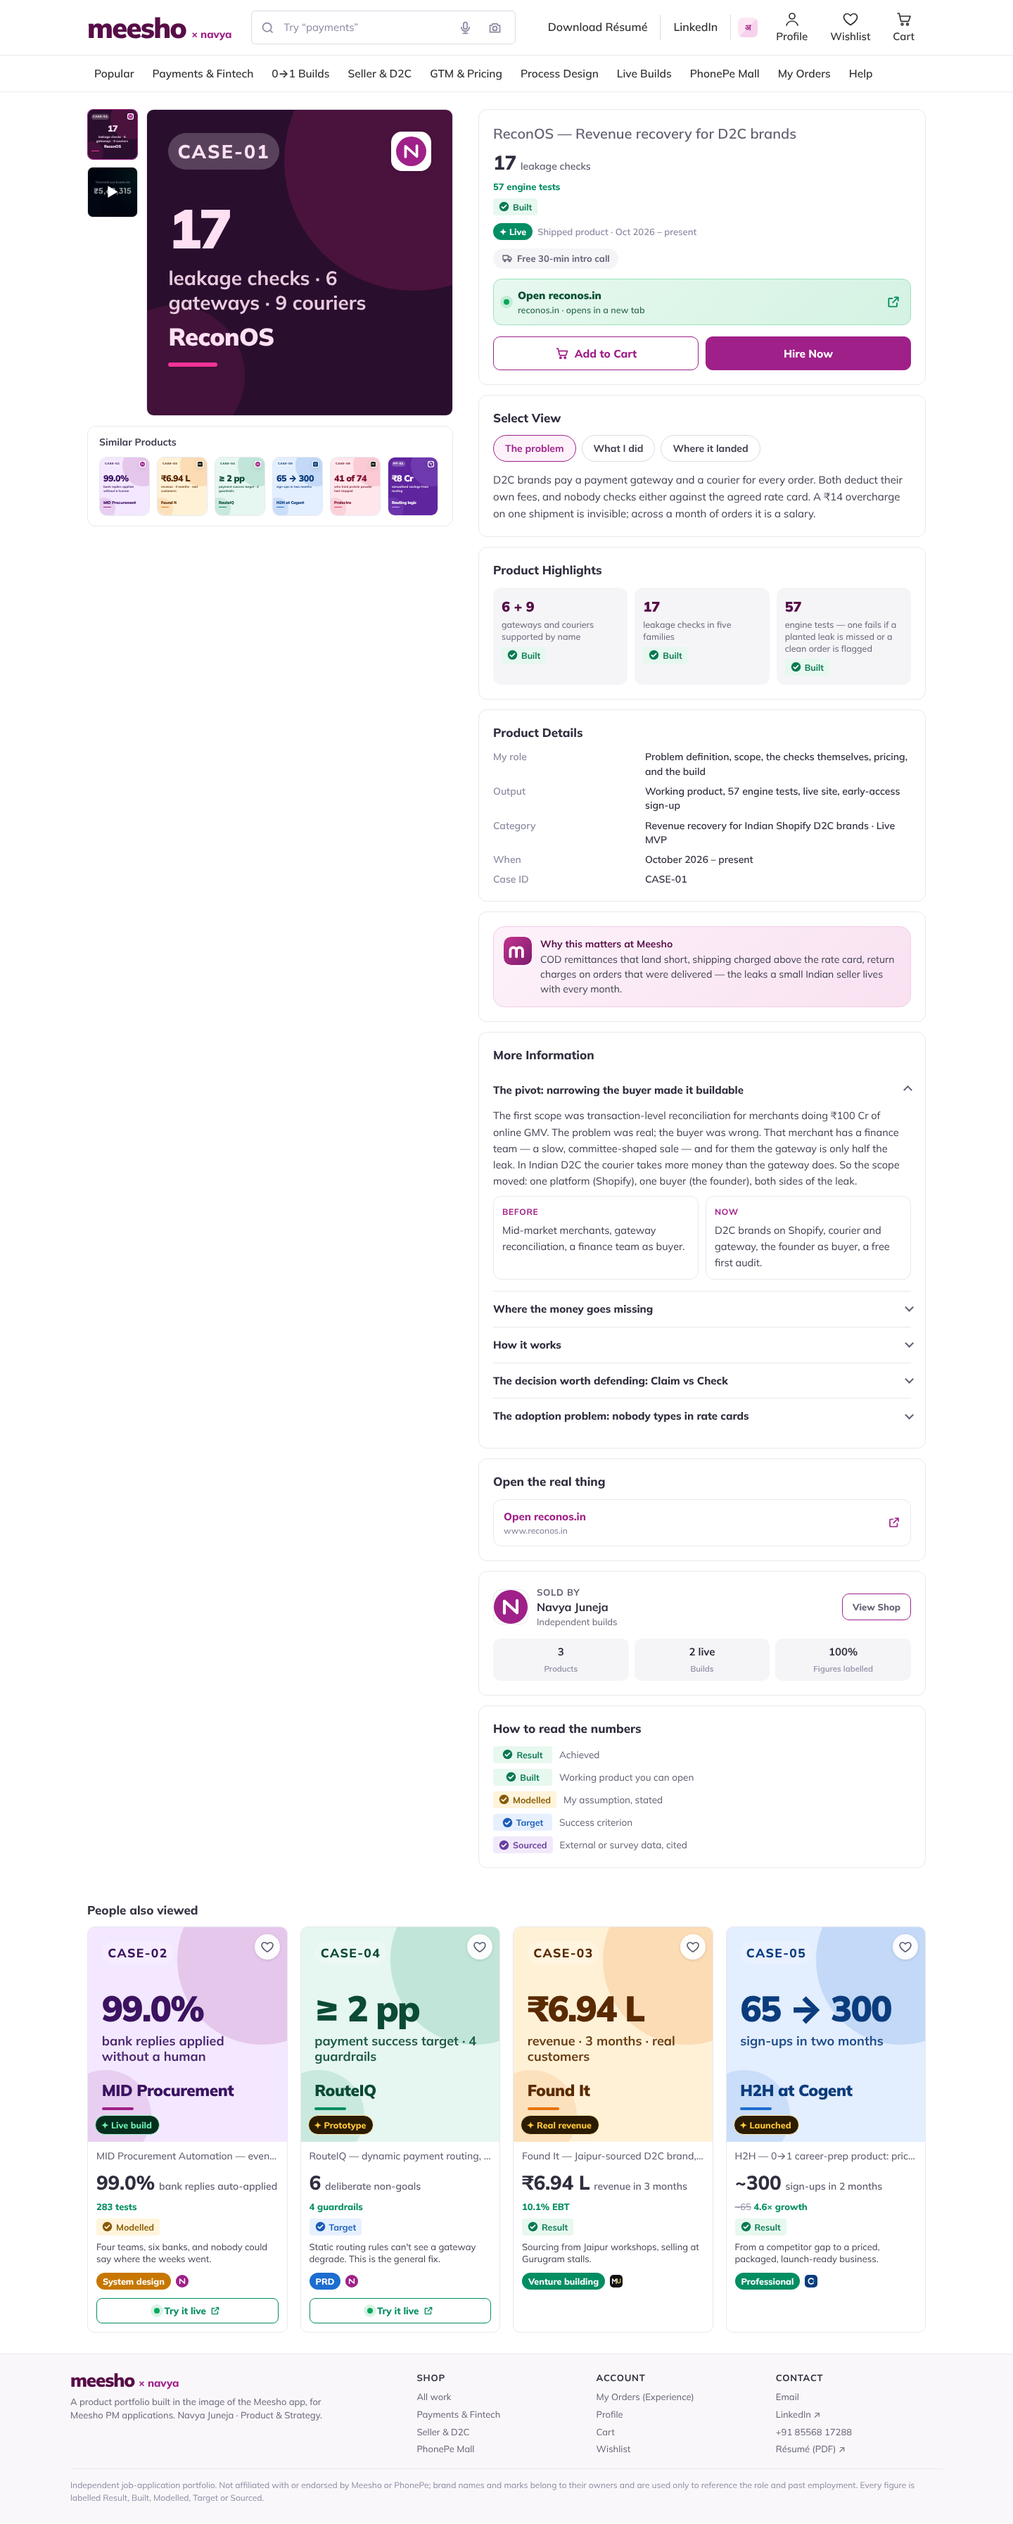
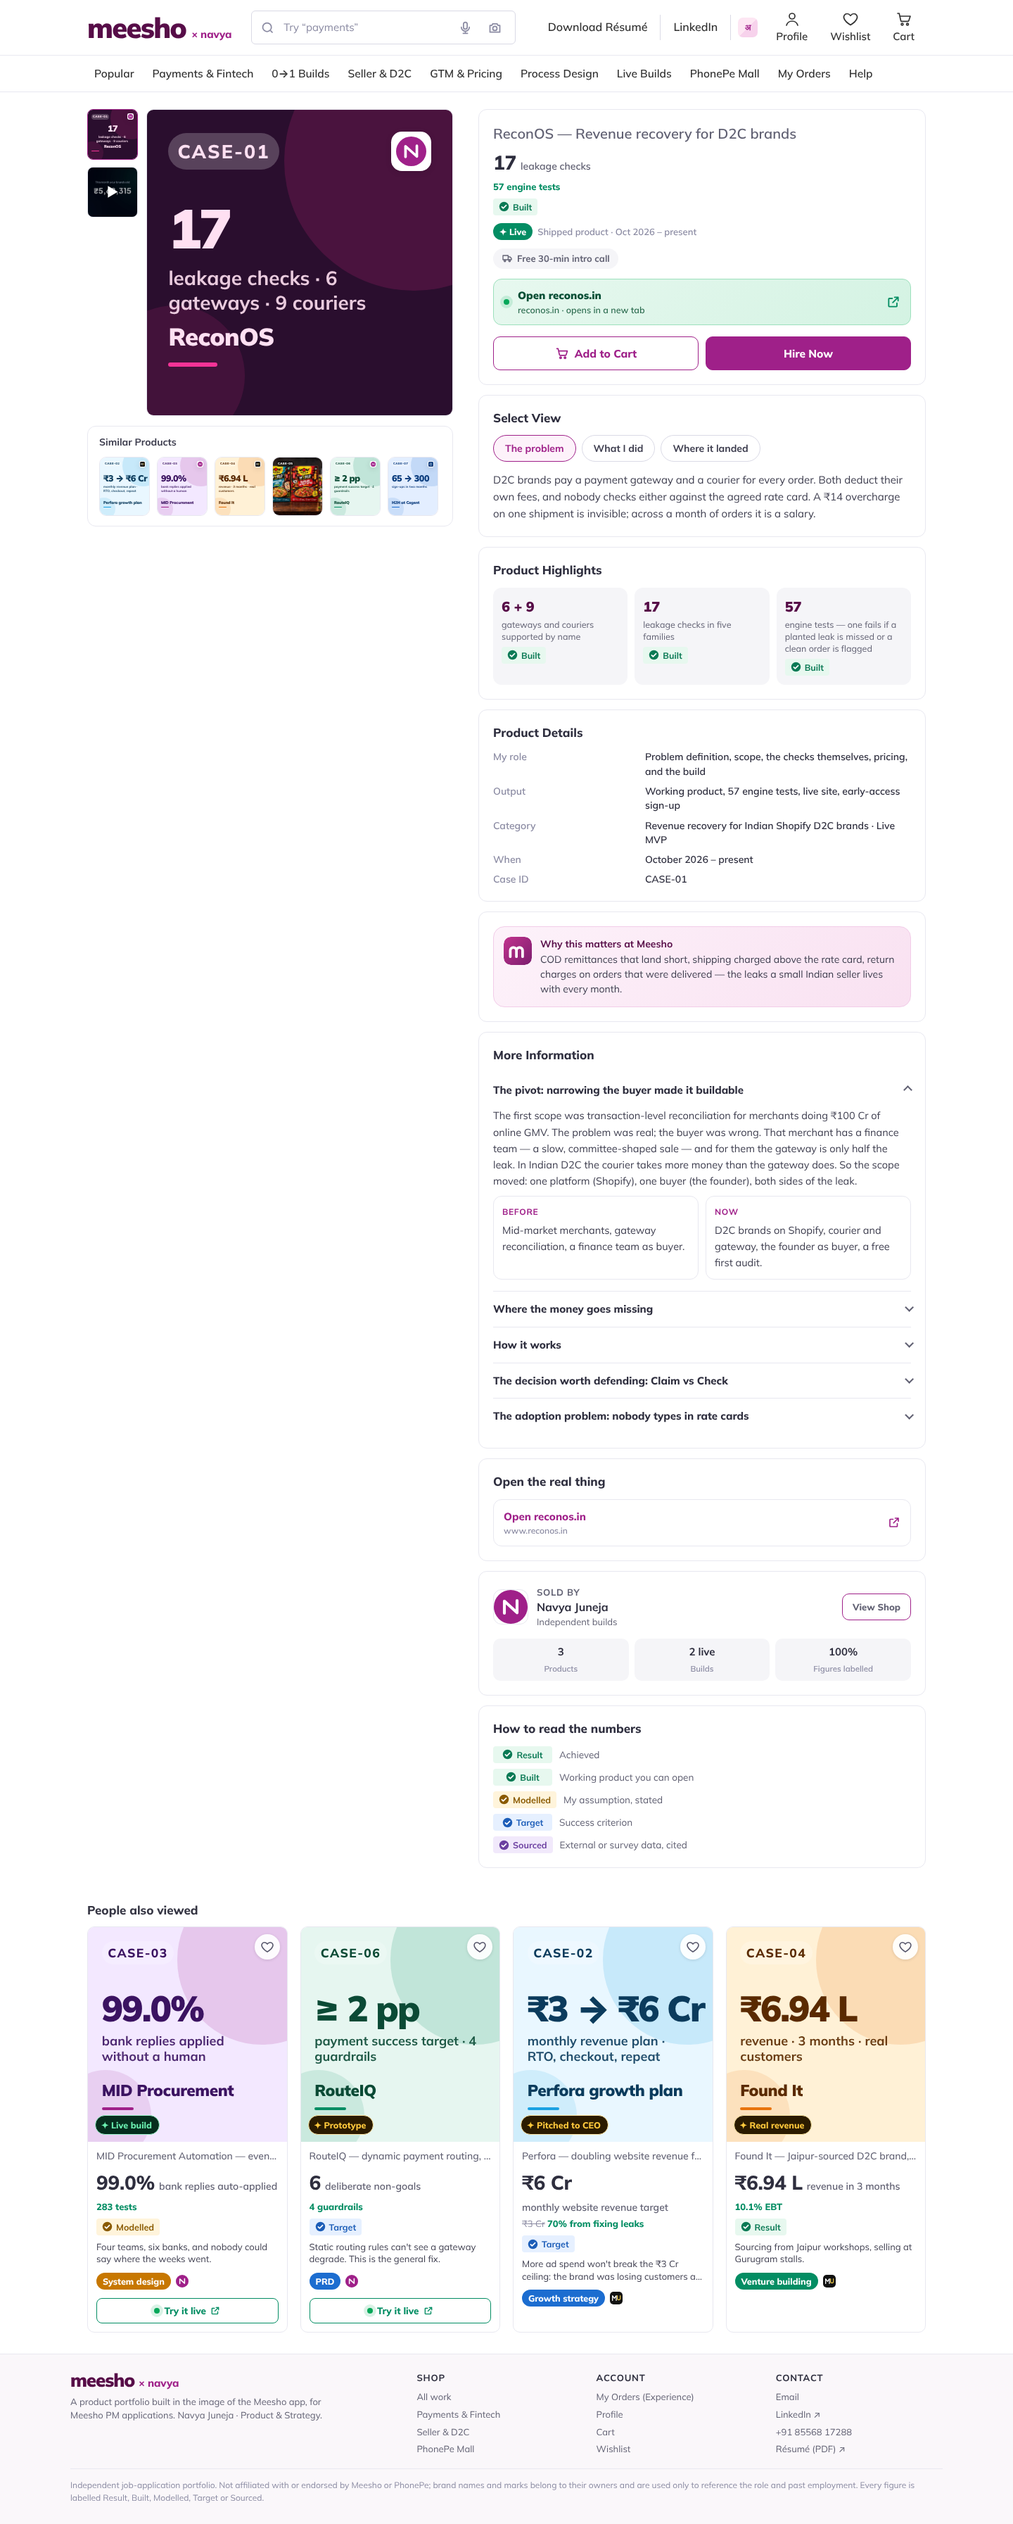
Add Perfora and WOW! World case studies
Perfora (CASE-02): the ₹3 Cr to ₹6 Cr growth plan pitched to the CEO,
with the three plan slides as the gallery. WOW! World (CASE-05): the
team category pitch (placed 3rd), focused on pricing, unit economics
and SOM, with the concept pack shot and key slides. Other cases
renumbered; duplicate off-the-clock tiles removed.

Claude-Session: https://claude.ai/code/session_01THtnK1kzX2RkawkJBz5nu7

Changed region(s): [[0.5, 0.7496, 0.9375, 0.937], [0.0938, 0.1562, 0.4375, 0.2186]]

diff --git a/assets/data.js b/assets/data.js
@@ -90,7 +90,56 @@ window.NJ = {
     },
 
     {
-      id: "mid", code: "CASE-02", seller: "navya", cats: ["payments", "process", "build"],
+      id: "perfora", code: "CASE-02", seller: "mu", cats: ["seller", "gtm", "payments"],
+      name: "Perfora — doubling website revenue from ₹3 Cr to ₹6 Cr a month",
+      short: "Perfora growth plan", kind: "Growth strategy · pitched to the CEO", badge: "Pitched to CEO", date: "2026", sort: 202611,
+      price: { v: "₹6 Cr", u: "monthly website revenue target", strike: "₹3 Cr", off: "70% from fixing leaks", prov: "target" },
+      hook: "More ad spend won't break the ₹3 Cr ceiling: the brand was losing customers at checkout, at the doorstep and after the first order.",
+      poster: { bg: "#E9F7FF", fg: "#0B3B5C", accent: "#1BA1E2", big: "₹3 → ₹6 Cr", small: "monthly revenue plan · RTO, checkout, repeat" },
+      media: [
+        { type: "img", src: "assets/work/perfora-slide-1.jpg", alt: "Slide 1: diagnosis — funnel leaks, ad payback and four root causes" },
+        { type: "img", src: "assets/work/perfora-slide-2.jpg", alt: "Slide 2: growth bridge from ₹3 Cr to ₹6 Cr, lever by lever" },
+        { type: "img", src: "assets/work/perfora-slide-3.jpg", alt: "Slide 3: six-month roadmap, KPI scorecard and two beta tests" }
+      ],
+      links: [],
+      meesho: "COD-heavy Tier 2/3 orders, RTO climbing from ~10% to ~20%, mobile checkout drop-off and weak repeat buying — this is the Meesho problem set, solved for one brand. The fixes (WhatsApp COD confirmation, ₹49 partial COD, pincode gating, UPI-first checkout, refill nudges) are the levers a Meesho PM pulls.",
+      summary: {
+        problem: "Perfora nearly doubled performance-marketing spend, yet website revenue stayed stuck at ~₹3 Cr a month, conversion sat at 1.9–2.4% and RTO rose from ~10% to 18%. The brief: a single data-backed plan to reach ₹6 Cr in six months while improving profitability.",
+        did: "Diagnosed the full funnel from the case workbook, built a driver tree (sessions × CVR × AOV × repeat × delivery) to bridge ₹3 Cr to ₹6 Cr lever by lever, designed two randomised beta tests, and laid out a gated six-month roadmap with a KPI scorecard. Pitched it to Perfora's CEO.",
+        landed: "A plan where ₹2.1 Cr of the extra ₹3 Cr comes from fixing delivery, checkout, basket size and repeat buying, and only ₹0.9 Cr from new customers — with ad spend up just 15%, and every ₹1 of ads earning ₹1.11 of contribution instead of ₹0.67."
+      },
+      details: [
+        ["My role", "Built and pitched the growth plan — diagnosis, driver-tree model, beta-test design, roadmap"],
+        ["Pitched to", "Perfora's CEO · Masters' Union × Perfora challenge"],
+        ["Data", "MU × Perfora case workbook, case brief and founder inputs"],
+        ["Output", "3-slide plan: diagnosis → growth bridge → 6-month roadmap"]
+      ],
+      metrics: [
+        { v: "60%", l: "of checkouts abandoned — 98% of sessions are mobile", p: "sourced" },
+        { v: "1 in 4", l: "orders never delivered (RTO + cancellations)", p: "sourced" },
+        { v: "₹0.67", l: "of contribution per ₹1 of ads today; breakeven needs ₹1", p: "modelled" },
+        { v: "₹2.1 Cr", l: "of the extra ₹3 Cr from fixing leaks, not new traffic", p: "modelled" },
+        { v: "+15%", l: "ad spend needed (₹2.0 → ₹2.3 Cr), vs the ~+100% that bought no growth", p: "target" },
+        { v: "₹4.3 Cr", l: "still reached if every lever delivers only half its assumed uplift", p: "modelled" }
+      ],
+      sections: [
+        { h: "Diagnosis: the leaks, not the traffic",
+          p: "15 L monthly sessions → 1.5 L add-to-carts → 75 K checkouts → 30 K orders (₹2.7 Cr booked) → 23 K delivered (₹2.07 Cr realised). Spend roughly doubled while revenue stayed flat, so the marginal return on the last ~₹1 Cr of ads was close to zero. Once returns are counted, ₹1 of ads brought back ₹0.67 of contribution.",
+          list: ["Extra budget pushed into colder audiences on one channel (Meta ≈ 90%)", "60% COD with no confirmation or pincode gating, skewed to Tier 2/3", "Mobile checkout leak: only 40% of checkouts complete; 15K reviews not doing trust work on product pages", "No replenishment engine: 4.5% one-month retention on a 45-day product cycle"] },
+        { h: "The bridge to ₹6 Cr, lever by lever",
+          steps: [["RTO & cancellations · +₹0.35 Cr", "RTO 20% → 12%, cancellations 3.5% → 2.5%, via COD confirmation, partial COD and pincode gating."], ["Checkout conversion · +₹0.67 Cr", "Checkout completion 40% → 48%, lifting CVR 2.0% → 2.4% — the top of Perfora's own range — with UPI one-tap checkout."], ["Basket size · +₹0.61 Cr", "AOV ₹900 → ₹1,035: routine kits and a ₹999 free-shipping bar."], ["Repeat buying · +₹0.46 Cr", "One-month retention 4.5% → 9% with day-35 refill nudges and subscribe-and-save."], ["Qualified acquisition · +₹0.91 Cr", "Sessions 15 L → 17.7 L, with new spend released in tranches only to channels that pay back."]] },
+        { h: "Two beta tests before spending more",
+          compare: [["Test 1 · COD confirmation → RTO", "Tier 2/3 shoppers randomised 50/50 at checkout; WhatsApp confirmation + ₹49 partial COD. Roll out if COD RTO ≤ 24% and checkout completion drops < 1 pt; kill if CVR falls > 5%."], ["Test 2 · Past-buyer Meta holdout", "Hold out 50% of past buyers from Meta for four weeks. Keep the ~₹0.3 Cr/month only if the extra repeat orders it causes beat its cost; otherwise move it to prospecting."]] },
+        { h: "Six-month roadmap",
+          tiers: [["Fix: RTO, checkout, beta tests", "₹3.5 Cr", "Months 1–2"], ["Prove: kits, refill CRM, channel mix", "₹4.8 Cr", "Months 3–4"], ["Grow: gated new spend", "₹6.0 Cr", "Months 5–6"]],
+          p: "Each phase has an owner, leading KPIs and a gate. New ad money is released only to channels whose incremental ROAS clears breakeven (≈1.6x at a 62% contribution margin)." },
+        { h: "What if we're wrong?",
+          p: "At 75% of every assumed uplift, revenue still reaches ~₹5.1 Cr; at 50%, ~₹4.3 Cr. Profit beats today in both cases. Facts come from the case workbook (Sourced); the size of each uplift is our judgement (Modelled), which is exactly why the two beta tests come first." }
+      ]
+    },
+
+    {
+      id: "mid", code: "CASE-03", seller: "navya", cats: ["payments", "process", "build"],
       name: "MID Procurement Automation — event-sourced ops system",
       short: "MID Procurement", kind: "System design & live build", badge: "Live build", date: "Sep 2026 – present", sort: 202609,
       price: { v: "99.0%", u: "bank replies auto-applied", strike: "", off: "283 tests", prov: "modelled" },
@@ -137,7 +186,7 @@ window.NJ = {
     },
 
     {
-      id: "foundit", code: "CASE-03", seller: "mu", cats: ["seller", "gtm"],
+      id: "foundit", code: "CASE-04", seller: "mu", cats: ["seller", "gtm"],
       name: "Found It — Jaipur-sourced D2C brand, run on a weekly P&L",
       short: "Found It", kind: "Venture building · team venture", badge: "Real revenue", date: "Jul – Sep 2026", sort: 202607,
       price: { v: "₹6.94 L", u: "revenue in 3 months", strike: "", off: "10.1% EBT", prov: "result" },
@@ -176,7 +225,60 @@ window.NJ = {
     },
 
     {
-      id: "routeiq", code: "CASE-04", seller: "navya", cats: ["payments"],
+      id: "wowworld", code: "CASE-05", seller: "mu", cats: ["gtm", "seller"],
+      name: "WOW! World — WOW! Momo's next FMCG category, priced and sized",
+      short: "WOW! World", kind: "Category strategy · team pitch", badge: "Placed 3rd", date: "2026", sort: 202610,
+      price: { v: "₹5.2 Cr", u: "SOM a year in 3 pilot cities", strike: "", off: "6 SKUs · ₹10–₹99", prov: "modelled" },
+      hook: "Global-inspired masalas from ₹10: a cheap way to try, a better deal to keep cooking.",
+      cardImg: "assets/work/wow-packshot.jpg",
+      poster: { bg: "#1E1E1E", fg: "#FFD43B", accent: "#E31B23", big: "₹5.2 Cr", small: "SOM · 3 cities · 6 SKUs from ₹10" },
+      media: [
+        { type: "img", src: "assets/work/wow-pricing.jpg", alt: "Pricing slide: a cheap way to try, a better deal to keep cooking" },
+        { type: "img", src: "assets/work/wow-unit-economics.jpg", alt: "Unit economics slide: contribution per pack and margin by SKU" },
+        { type: "img", src: "assets/work/wow-market.jpg", alt: "Market size slide: TAM to SAM to SOM" },
+        { type: "img", src: "assets/work/wow-pilot.jpg", alt: "Pilot plan slide: ₹31 L in 6 months, ₹5.2 Cr a year at scale" },
+        { type: "img", src: "assets/work/wow-shelf.jpg", alt: "Shelf gap slide: the shelf barely goes past Schezwan" },
+        { type: "img", src: "assets/work/wow-range.jpg", alt: "Launch range slide: three flavours, six SKUs" }
+      ],
+      links: [],
+      meesho: "A ₹10 trial sachet to a ₹89 carton is a price ladder built for a value-conscious buyer, and the shaker earning 42% funds the lower-margin packs. Sizing SOM bottom-up — doors × packs a day × days × price — instead of as a share of India is how I'd size any new Meesho category.",
+      summary: {
+        problem: "WOW! Momo's packaged-foods business already sells frozen momos, cup and pouch noodles, ready-to-eat biryani and sauces. The brief: find the next category, and prove market gap, brand fit, size, SKUs, pricing and commercial viability.",
+        did: "With a five-person Masters' Union team, we found the gap through customer interviews and a Reddit test: the shelf barely goes past Schezwan. I owned pricing, unit economics and SOM — the price ladder against the shelf, contribution for every SKU, and a pilot-first market size.",
+        landed: "WOW! World: three global-inspired masalas across six SKUs from ₹10 to ₹99, a ₹54 L gated pilot in nine quick-commerce clusters, and money back by 2028. Placed 3rd, pitching to WOW! Momo's CEO."
+      },
+      details: [
+        ["My role", "Pricing, unit economics and SOM"],
+        ["Team", "Saanvi Jindal, Yash Dhariwal, Tarushi Tyagi, Anjali Lodha & Navya Juneja"],
+        ["Pitched to", "WOW! Momo's CEO · placed 3rd"],
+        ["Research", "On-camera customer interviews in Delhi, an r/delhi thread, shelf and competitor pricing"],
+        ["Note", "Pack designs are concept mock-ups made by the team"]
+      ],
+      metrics: [
+        { v: "₹1,273 Cr", l: "category today, ₹2,639 Cr by 2030 (15.7% CAGR)", p: "modelled" },
+        { v: "₹31 L", l: "pilot sales in 6 months across 9 clusters", p: "modelled" },
+        { v: "42%", l: "contribution on the ₹99 shaker — the margin engine of the range", p: "modelled" },
+        { v: "₹17.8–20", l: "a meal: between Ching's ₹10 sachet and Knorr's ₹27.5", p: "target" },
+        { v: "₹54 L", l: "pilot budget; at worst WOW! is ₹51 L out of pocket, back above zero in 2028", p: "modelled" },
+        { v: "5 gates", l: "velocity, taste, trial, repeat and viability decide the ₹29 L scale-up", p: "target" }
+      ],
+      sections: [
+        { h: "The gap: the shelf barely goes past Schezwan",
+          p: "Young Indians try Korean, Thai and Himalayan street food when they eat out, but the pantry offers Indo-Chinese mixes or costly imports. Indo-Chinese recipe sachets cost about ₹10 a meal; imported Asian seasonings ₹3.75/g, with few brands in between. And there's no new habit to teach: Indians already cook with pav bhaji and biryani masalas." },
+        { h: "Pricing: a cheap way to try, a better deal to keep cooking",
+          tiers: [["Cooking masala sachet, 20 g", "₹20", "To try"], ["Carton, 5 × 20 g", "₹89", "To keep cooking"], ["Spring Onion shaker, 60 g", "₹99", "Finishing crunch"]],
+          p: "₹17.8–20 a meal sits a step above Ching's ₹10 and below Knorr's ₹27.5. The carton is 11% cheaper per meal, so the sachet never undercuts it. ₹10 is the counter price for impulse adds; the shaker sits 32% below Orika's per gram while earning 42% of net revenue." },
+        { h: "Unit economics: every SKU from MRP to contribution",
+          p: "₹89 Korean Street Style carton: −₹4.2 GST, −₹22.9 channel margin = ₹61.9 net revenue; −₹35.5 COGS, −₹8 marketing, −₹3 logistics = ₹15.3 contribution (24.8%). Blended contribution is 28% on the 2028 mix. The Himalayan Jhol carton earns only 13.5% today — getting its ingredient cost down is job one for recipe work." },
+        { h: "SOM built from the pilot, not as a share of India",
+          steps: [["Pilot · ₹31 L in 6 months", "300 dark stores × 0.8 packs a day × 182 days × ₹66, plus 40 WOW! outlets × 1 pack a day."], ["Year 1 · ₹1.59 Cr", "Pilot plus scale-up in Delhi NCR, Bengaluru and Mumbai."], ["SOM · ₹5.2 Cr a year", "1,500 dark stores × 1.2 a day + 115 outlets × 1.5 + 500 modern-trade stores × 0.4 — 4.2% of the ₹124 Cr pilot-city SAM."]] },
+        { h: "Gated pilot",
+          list: ["Velocity: 0.8 packs per dark store a day", "Taste: 4/5 or better", "Trial: 8% of tasters buy within 7 days", "Repeat: 25% buy again within 60 days", "Viability: 20%+ contribution"] }
+      ]
+    },
+
+    {
+      id: "routeiq", code: "CASE-06", seller: "navya", cats: ["payments"],
       name: "RouteIQ — dynamic payment routing, written as a PRD",
       short: "RouteIQ", kind: "PRD & trade-off design", badge: "Prototype", date: "", sort: 202606,
       price: { v: "6", u: "deliberate non-goals", strike: "", off: "4 guardrails", prov: "target" },
@@ -214,7 +316,7 @@ window.NJ = {
     },
 
     {
-      id: "h2h", code: "CASE-05", seller: "cogent", cats: ["gtm", "build"],
+      id: "h2h", code: "CASE-07", seller: "cogent", cats: ["gtm", "build"],
       name: "H2H — 0→1 career-prep product: pricing, funnel & launch",
       short: "H2H at Cogent", kind: "Professional · 0→1 product", badge: "Launched", date: "Aug 2025 – Jun 2026", sort: 202508,
       price: { v: "~300", u: "sign-ups in 2 months", strike: "~65", off: "4.6× growth", prov: "result" },
@@ -252,7 +354,7 @@ window.NJ = {
     },
 
     {
-      id: "prolectro", code: "CASE-06", seller: "mu", cats: ["gtm"],
+      id: "prolectro", code: "CASE-08", seller: "mu", cats: ["gtm"],
       name: "Prolectro — clear protein sachet, consumer research to GTM",
       short: "Prolectro", kind: "GTM strategy · proposed, not launched", badge: "Proposed", date: "Sep 2026", sort: 202609,
       price: { v: "₹129", u: "per sachet", strike: "₹166", off: "vs nearest rival", prov: "target" },
@@ -403,7 +505,7 @@ window.NJ = {
       title: "PGP in Technology & Business Management (PGP-TBM)", when: "2026 – Present", where: "Gurgaon",
       status: "ongoing", statusText: "In progress",
       body: "Technology, strategy and business transformation. Co-launched 2 revenue-generating ventures (₹7.3 L combined) and a live AI product.",
-      related: ["foundit", "prolectro"]
+      related: ["perfora", "wowworld", "foundit", "prolectro"]
     },
     {
       id: "cogent", type: "work", org: "Cogent Infotech", logo: "assets/logos/cogent.svg",
@@ -475,8 +577,6 @@ window.NJ = {
     ["6", "first and second-place awards across national theatre competitions spanning 10+ colleges"],
     ["Top 15", "nationally at Mood Indigo, IIT Bombay, across 2,000+ entrants"],
     ["1st", "at the Masters' Union Startup Weekend, pitching a D2C pet-care venture against 20+ teams"],
-    ["3rd", "pitching WOW! Momo's next FMCG category to its CEO — pricing, unit economics, SOM"],
-    ["₹6 Cr", "a month: the plan pitched to Perfora's CEO to double revenue, 70% of it from fixing RTO, checkout and repeat purchase"],
     ["3", "inter-school Parliamentary Debate finals reached as semi-finalist or first runner-up"]
   ],
 

diff --git a/assets/app.js b/assets/app.js
@@ -90,6 +90,7 @@
   }
   function poster(p) {
     var o = p.poster, s = D.sellers[p.seller];
+    if (p.cardImg) return '<div class="poster photo" aria-hidden="true"><img src="' + p.cardImg + '" alt="" loading="lazy"><span class="po-code">' + esc(p.code) + "</span></div>";
     return '<div class="poster" style="background:' + o.bg + ";color:" + o.fg + '" aria-hidden="true">' +
       '<i class="po-c a" style="background:' + o.accent + '"></i><i class="po-c b" style="background:' + o.accent + '"></i>' +
       '<div class="po-top"><span class="po-code">' + esc(p.code) + '</span><span class="po-logo"><img src="' + s.logo + '" alt=""></span></div>' +
@@ -257,7 +258,7 @@
       '<span class="cal"><i>' + d[0] + "</i><b>" + d[1] + '</b></span><span class="go">' + I.arrow + '</span></div><span class="tc">*Every figure labelled by provenance</span></a>';
   }
   function bestPicks() {
-    var picks = ["reconos", "foundit", "pp-routing", "h2h"].map(function (id) { return byId[id]; });
+    var picks = ["reconos", "perfora", "wowworld", "pp-routing"].map(function (id) { return byId[id]; });
     return '<a class="best" href="#/shop/all" aria-label="Best picks: see all products"><div class="best-in"><h3><span>Best</span><span>Picks 👌</span></h3>' +
       '<div class="thumbs">' + picks.map(function (p) { return '<span class="mini" style="position:relative">' + poster(p) + "</span>"; }).join("") + '</div><span class="arr">' + I.arrow.replace("<svg", '<svg aria-hidden="true"') + "</span></div></a>";
   }

diff --git a/assets/app.css b/assets/app.css
@@ -778,3 +778,13 @@ body:not(.r-home):not(.r-shop) .mic-fab{display:none}
 .hdr{display:flex;flex-direction:column}
 .hdr-sub{order:-1}
 @media (min-width:1024px){.hdr{display:block}}
+.poster.photo{background:#141414}
+.poster.photo img{width:100%;height:100%;object-fit:cover}
+.poster.photo .po-code{position:absolute;left:7cqw;top:7cqw;color:#fff;background:rgba(0,0,0,.45)}
+.slide .poster.photo img{object-fit:contain}
+.cgrid .cg-img .poster.photo .po-code{display:none}
+@media (min-width:1024px){
+  .gal{align-items:start}
+  .thumbs-v{max-height:min(520px,calc(100vh - 200px));overflow-y:auto;scrollbar-width:thin;padding-right:2px}
+  .thumbs-v button{flex:none}
+}
